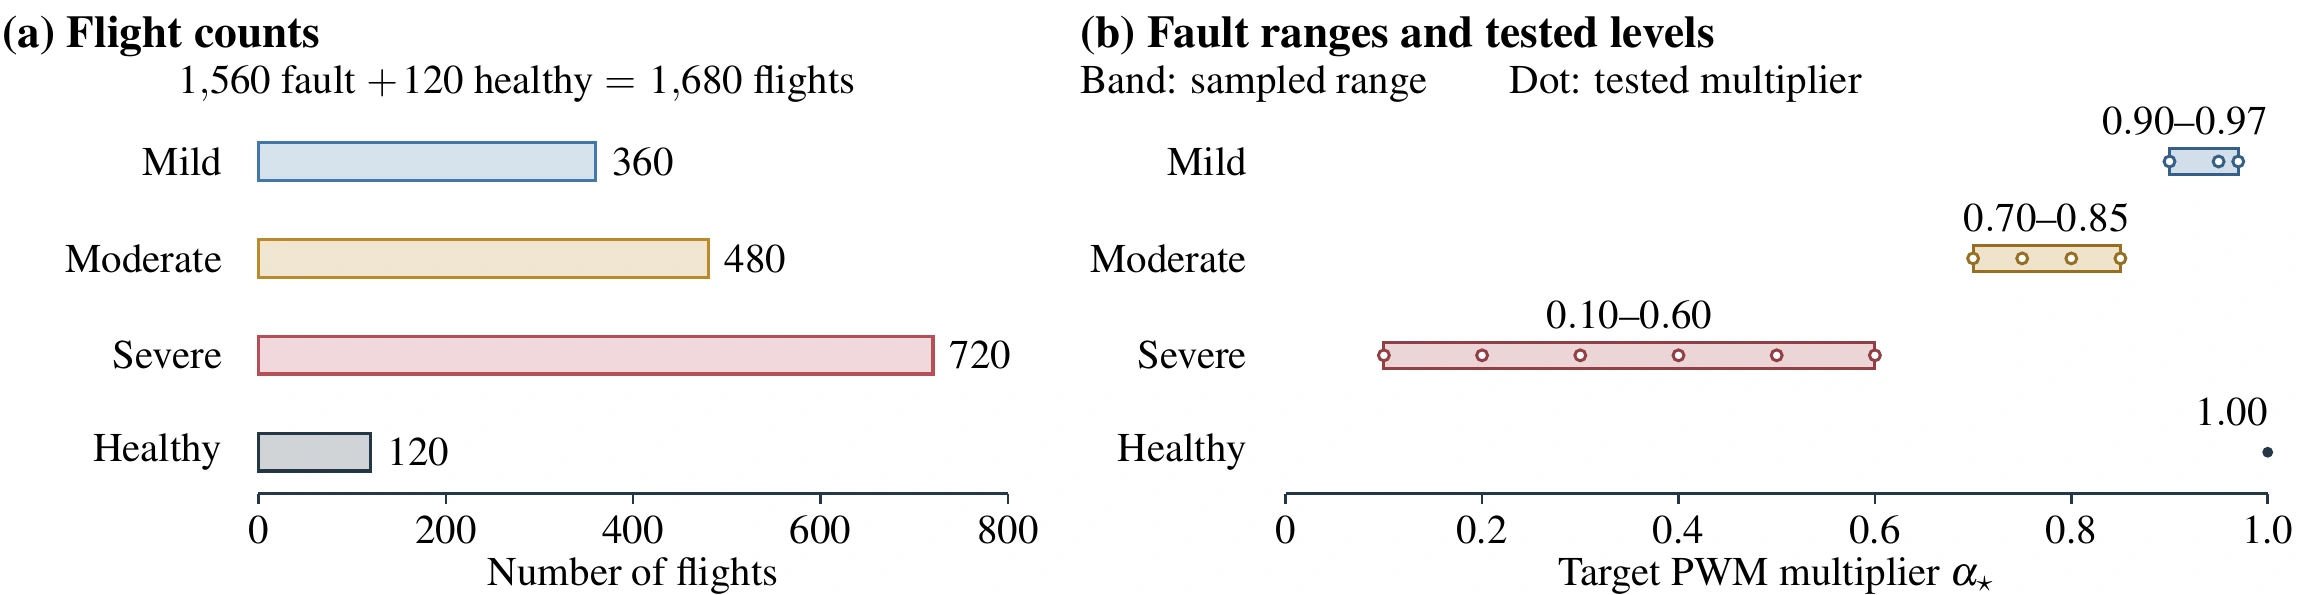
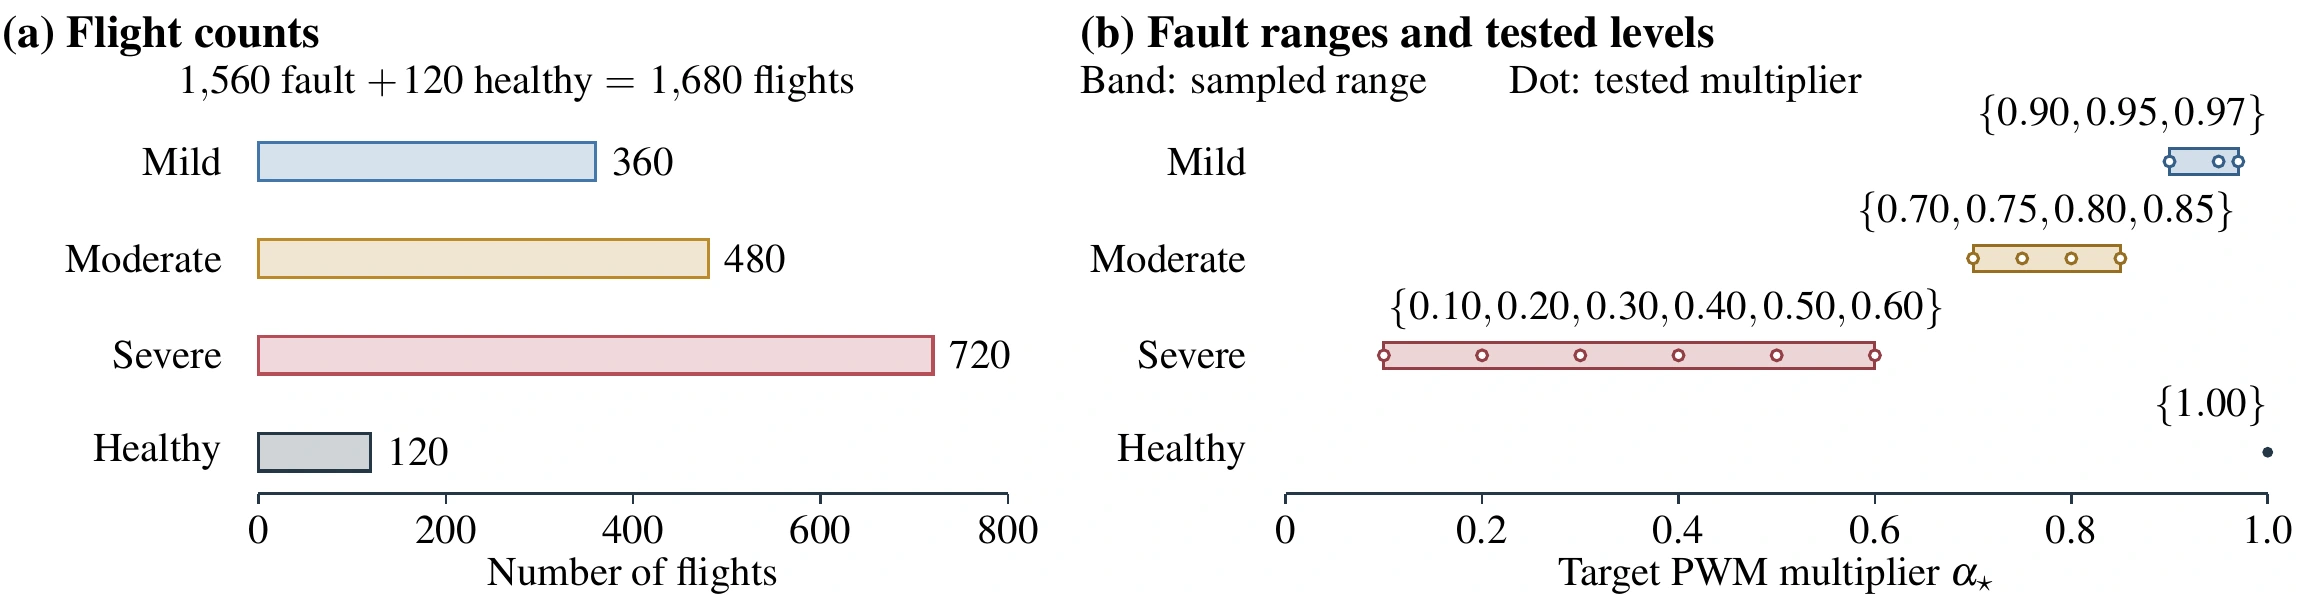
Show discrete tested fault levels in dataset coverage figure

diff --git a/docs/index.html b/docs/index.html
@@ -67,7 +67,7 @@
         <p><strong>156 fault conditions × 10 repetitions</strong> give 1,560 fault flights, complemented by 120 healthy controls. Four motor identities, three temporal profiles, and thirteen tested multipliers cover mild through severe faults.</p>
       </div>
       <figure class="wide-figure coverage-figure">
-        <div class="figure-scroll" aria-label="Dataset flight counts and tested fault multipliers"><a class="figure-link" href="assets/dataset-coverage.webp" target="_blank" rel="noopener" aria-label="Open the complete dataset coverage figure at full size"><img class="technical-figure" src="assets/dataset-coverage.webp" alt="Dataset composition: 360 mild, 480 moderate, 720 severe, and 120 healthy flights. Tested PWM multipliers are 0.90, 0.95, 0.97 for mild; 0.70, 0.75, 0.80, 0.85 for moderate; 0.10 through 0.60 for severe; 1.00 for healthy controls." width="2300" height="595" loading="lazy"></a></div>
+        <div class="figure-scroll" aria-label="Dataset flight counts and tested fault multipliers"><a class="figure-link" href="assets/dataset-coverage.webp" target="_blank" rel="noopener" aria-label="Open the complete dataset coverage figure at full size"><img class="technical-figure" src="assets/dataset-coverage.webp" alt="Dataset composition: 360 mild, 480 moderate, 720 severe, and 120 healthy flights. Tested PWM multipliers are 0.90, 0.95, 0.97 for mild; 0.70, 0.75, 0.80, 0.85 for moderate; 0.10, 0.20, 0.30, 0.40, 0.50, 0.60 for severe; 1.00 for healthy controls." width="2300" height="595" loading="lazy"></a></div>
         <figcaption>The multiplier specifies the fraction of the original PWM command retained by the injector. Healthy controls include 80 ordinary flights and 40 sham trials.</figcaption>
       </figure>
       <div class="reading matrix-intro">
